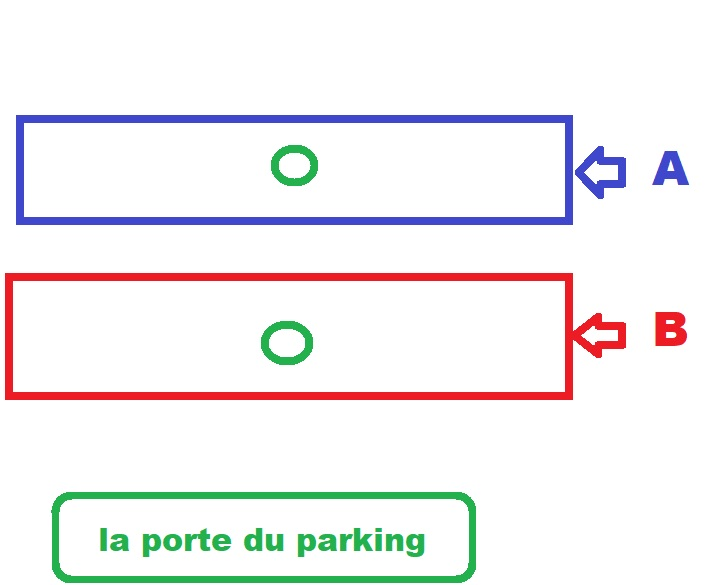
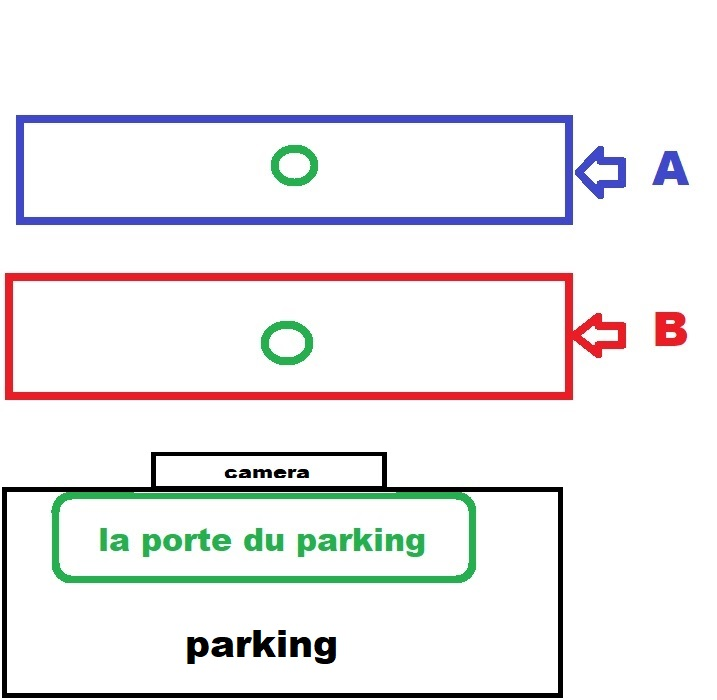
Signed-off-by: amr.lounis <amr.lounis>

Changed region(s): [[0.0, 0.1538, 0.9819, 1.0], [0.1227, 0.8923, 0.6137, 0.9538]]

diff --git a/chapitre4.tex b/chapitre4.tex
@@ -1,3 +1,7 @@
+% ++++++++++++++++++++++++++++ Je n'ai constaté aucune erreur liée à la zone A et B selon mon observation de boufedji page 58
+%+++++++ observation de boufedji algorithme supreme
+ % +++++++++++++++++++++++ remarque de DJOUADI unity of tables OK
+ % le langage de programmation Python sur is ok delete
 \chapter{Système intelligent de gestion du parking: Réalisation, résultats et analyse}
 \markboth{Système intelligent de gestion du parking: Réalisation, résultats et analyse}{}
 \section{Introduction}
@@ -18,7 +22,7 @@ En outre, il pourrait être avantageux de disposer de bases de données spécifi
 \section{Solution proposée}
 La solution proposée repose sur trois sous-systèmes , qui sont inter-connectés pour former un système global de gestion de parking intelligent, comme illustré dans la figure \ref{fig:ch4_Simple_system_diagram}. 
 
-\begin{outline}
+\begin{outline}[enumerate]
     \1 Le premier sous-système est utilisé pour détecter les voitures et les plaques d'immatriculation dans une image.
 
     \1 Le deuxième sous-système se focalise sur la reconnaissance des caractères optiques contenus sur la plaque détectée. 
@@ -28,17 +32,15 @@ La solution proposée repose sur trois sous-systèmes , qui sont inter-connecté
 
 \begin{figure}[H]
 	\centering
-	\includegraphics[height=05cm]{ch4-Simple_system_diagram.jpg}
+	\includegraphics[height=07cm]{ch4-Simple_system_diagram.jpg}
 	\caption{Système proposé de gestion de parking intelligent}
  \label{fig:ch4_Simple_system_diagram}
 \end{figure}
+
 \subsection{Sous-systèmes de détection de véhicules et de plaques d'immatriculations}
 Comme mentionné précédemment, ce travail s'appuie sur le modèle "YOLOv8", "SSD" ou "Faster R-CNN" pour la gestion des parkings. Ce processus implique l'identification et la prédiction des véhicules ainsi que des plaques d'immatriculation Algériennes, réparties en deux catégories : véhicules et plaques d’immatriculation.
 \\
 L'idée est de construire d'abord une base de données de véhicules, puis d'entraîner le modèle et de le tester sur des images. Pour ce faire, les images collectées sont soumises à un prétraitement et à une annotation. Ensuite, un échantillonnage automatique des données est appliqué pour former des ensembles d'images destinés à l'entraînement, à la validation et aux tests.
-%(70 \%) des images de données ont été utilisées comme échantillons d'apprentissage.
-%(20 \%) des images de données ont été utilisées comme ensembles de validation.
-%(10\%) des images de données ont été utilisées comme ensembles de test.
 
 Dans la phase d'apprentissage du modèle adapté, les poids du modèle sont calculés en se basant sur les ensembles de données préparés et les poids pré-entraînés. Une fois que l'apprentissage est terminé, il est nécessaire d'évaluer le modèle utilisé sur des données de test en utilisant les poids d'entraînement. Par conséquent, les véhicules munis de plaques d'immatriculation à détecter seront localisés et prédits.
 
@@ -59,30 +61,33 @@ La liste des numéros détectés est ensuite organisée dans l'ordre de leur pos
 
 \subsection{Sous-systèmes de suivi et de comptage en temps réel des véhicules}\label{sec:traking}
 
+La vidéo est une séquence d'images conçue pour créer une illusion de mouvement lorsqu'elle est visionnée séquentiellement. Le suivi des mouvements des voitures dans la vidéo repose sur l'analyse des déplacements des objets détectés dans les images successives de la vidéo, grâce à l'utilisation d'algorithmes de détection d'objets. Pour suivre le mouvement des voitures, le système passe par plusieurs étapes : tout d'abord, il repère la position de la voiture dans deux images consécutives, puis mesure la distance entre elles. Si cette distance est réduite, cela signifie que la voiture a peu bougé, ce qui permet d'attribuer un identifiant unique à chaque voiture pendant son déplacement dans la scène \cite{ch4_yolo_sort}.
 
-Les véhicules identifiés sont exploités dans le processus de suivi et de comptage des véhicules au sein d'une séquence vidéo. Cette séquence enregistre des images de véhicules capturées à des moments successifs. Par conséquent, lorsqu'un véhicule est observé en mouvement dans une vidéo, cela implique que le véhicule occupe une position différente à chaque image consécutive de la vidéo.
-\\
-L'idée fondamentale derrière le suivi d'objets réside dans la création d'un traqueur d'objet pour chaque objet détecté, afin de suivre son déplacement. Ce suivi se prolonge jusqu'à ce que la N-ième image de la séquence soit atteinte, avec un processus de détection d'objets en cours. Le traqueur d'objets est responsable de la surveillance continue de chaque véhicule, attribuant et maintenant des numéros d'identification (ID) pour chacun.
 
-Dans la phase de suivi de notre système, nous avons mis en œuvre un algorithme simple de suivi d'objets qui se base sur le suivi des centroïdes des objets. Il fonctionne en calculant la distance Euclidienne entre les centroïdes des véhicules déjà existants (c'est-à-dire les véhicules précédemment suivis par le traqueur de centroïdes) et les centroïdes des nouveaux véhicules présents dans les images suivantes de la vidéo. Les étapes complètes de cette solution sont détaillées comme suit :
+% Les véhicules identifiés sont exploités dans le processus de suivi et de comptage des véhicules au sein d'une séquence vidéo. Cette séquence enregistre des images de véhicules capturées à des moments successifs. Par conséquent, lorsqu'un véhicule est observé en mouvement dans une vidéo, cela implique que le véhicule occupe une position différente à chaque image consécutive de la vidéo.
+% \\
+% L'idée fondamentale derrière le suivi d'objets réside dans la création d'un traqueur d'objet pour chaque objet détecté, afin de suivre son déplacement. Ce suivi se prolonge jusqu'à ce que la N-ième image de la séquence soit atteinte, avec un processus de détection d'objets en cours. Le traqueur d'objets est responsable de la surveillance continue de chaque véhicule, attribuant et maintenant des numéros d'identification (ID) pour chacun.
 
-%Ces étapes sont répétées tout le temps tant que le programme est en cours d'exécution 
-\begin{outline}[enumerate]
-    \1  Lire un image de la vidéo (ou d'un flux de données en temps réel)à un moment t.
-    
-    \1  Détecter les véhicules présents dans l'image (en estimant les coordonnées des boîtes englobantes) concernée.
-    
-    \1  Attribuer un identifiant à chaque véhicule détecté.
-    
-    \1  Calculer les centroïdes des voitures détectées et les enregistrer dans une liste. 
-    
-    \1  Lire un nouvelle image de la vidéo à un moment t+1.
-    
-    \1  Détecter les véhicules présents dans la nouvelle image (en estimant les coordonnées des nouvelles boîtes englobantes).
-    
-    \1  Calculer la distance entre les centroïdes des nouveaux véhicules et tous les centroïdes d'objets enregistrés dans la liste précédente.Si la distance entre le centre du nouveau véhicule et l'un des centres de la liste est inférieure à une distance minimale prédéfinie, alors le véhicule détecté est considéré comme étant le même que celui déjà enregistré. Le centroïde nouvellement calculé remplace l'ancien centroïde, et l'identifiant reste inchangé. Si la distance entre le centroïde du nouveau véhicule et tous les centres enregistrés dans la liste précédente est supérieure à la distance minimale, alors ce véhicule est considéré comme un nouveau véhicule dans la vidéo. Son centroïde est ajouté à la liste des centroïde avec un nouvel identifiant.
-\end{outline}
+% Dans la phase de suivi de notre système, nous avons mis en œuvre un algorithme simple de suivi d'objets qui se base sur le suivi des centroïdes des objets. Il fonctionne en calculant la distance Euclidienne entre les centroïdes des véhicules déjà existants (c'est-à-dire les véhicules précédemment suivis par le traqueur de centroïdes) et les centroïdes des nouveaux véhicules présents dans les images suivantes de la vidéo. Les étapes complètes de cette solution sont détaillées comme suit :
 
+% %Ces étapes sont répétées tout le temps tant que le programme est en cours d'exécution 
+% \begin{outline}[enumerate]
+%     \1  Lire un image de la vidéo (ou d'un flux de données en temps réel)à un moment t.
+    
+%     \1  Détecter les véhicules présents dans l'image (en estimant les coordonnées des boîtes englobantes) concernée.
+    
+%     \1  Attribuer un identifiant à chaque véhicule détecté.
+    
+%     \1  Calculer les centroïdes des voitures détectées et les enregistrer dans une liste. 
+    
+%     \1  Lire un nouvelle image de la vidéo à un moment t+1.
+    
+%     \1  Détecter les véhicules présents dans la nouvelle image (en estimant les coordonnées des nouvelles boîtes englobantes).
+    
+%     \1  Calculer la distance entre les centroïdes des nouveaux véhicules et tous les centroïdes d'objets enregistrés dans la liste précédente.Si la distance entre le centre du nouveau véhicule et l'un des centres de la liste est inférieure à une distance minimale prédéfinie, alors le véhicule détecté est considéré comme étant le même que celui déjà enregistré. Le centroïde nouvellement calculé remplace l'ancien centroïde, et l'identifiant reste inchangé. Si la distance entre le centroïde du nouveau véhicule et tous les centres enregistrés dans la liste précédente est supérieure à la distance minimale, alors ce véhicule est considéré comme un nouveau véhicule dans la vidéo. Son centroïde est ajouté à la liste des centroïde avec un nouvel identifiant.
+% \end{outline}
+
+\subsubsection{comptage des voitures entrant et sortant}
 Si nous divisons la scène sous surveillance de la caméra de sécurité en deux zones,  à savoir la zone B près de la porte du parking et la zone A plus éloignée de la porte du parking, comme illustré dans la figure \ref{ch4-comptage}, il devient possible de compter les véhicules entrants et sortants en suivant le mouvement des véhicules entre les deux zones de la manière suivante :\\
 Lorsque nous suivons les véhicules qui se déplacent de la zone A vers la zone B, nous les comptons et les considérons comme le nombre de véhicules entrant dans le parking.\\
 Lorsque nous suivons les véhicules qui se déplacent de la zone B vers la zone A, nous les comptons et les considérons comme le nombre de véhicules sortant du parking.
@@ -96,7 +101,9 @@ Lorsque nous suivons les véhicules qui se déplacent de la zone B vers la zone 
 
 \section{Étude expérimentale}
 
-Les expériences réalisées dans cette section ont été effectuées en utilisant le langage de programmation Python sur la plateforme Google Colaboratory (communément appelée Colab). Cette plateforme utilise l'environnement "Jupyter" (exécuté dans le cloud de Google) pour des tâches d'apprentissage profond et des applications centrées sur les unités de traitement graphique (GPU). En plus de sa facilité d'utilisation (aucune installation préalable requise), Colab offre des ressources de calcul gratuites et prend en charge le développement collaboratif. Du point de vue technique, elle est équipée de 12,8 Go de mémoire vive (RAM) et d'une unité de traitement graphique gratuite (NVIDIA Tesla t4 + 16GB RAM) pouvant être utilisée en continu pendant 12 heures, avec la possibilité d'accéder à d'autres unités de traitement moyennant un abonnement payant. En complément, nous avons utilisé un ordinateur portable équipé d'un processeur \{Intel i5-8350U à 1,70 GHz\}, avec une carte graphique \{Intel UHD Graphics 620\}, sous Windows 10  pour réaliser nos expériences.
+Les expériences réalisées dans cette section ont été effectuées en utilisant
+% le langage de programmation Python sur 
+la plateforme Google Colaboratory (communément appelée Colab). Cette plateforme utilise l'environnement "Jupyter" (exécuté dans le cloud de Google) pour des tâches d'apprentissage profond et des applications centrées sur les unités de traitement graphique (GPU). En plus de sa facilité d'utilisation (aucune installation préalable requise), Colab offre des ressources de calcul gratuites et prend en charge le développement collaboratif. Du point de vue technique, elle est équipée de 12,8 Go de mémoire vive (RAM) et d'une unité de traitement graphique gratuite (NVIDIA Tesla t4 + 16GB RAM) pouvant être utilisée en continu pendant 12 heures, avec la possibilité d'accéder à d'autres unités de traitement moyennant un abonnement payant. En complément, nous avons utilisé un ordinateur portable équipé d'un processeur \{Intel i5-8350U à 1,70 GHz\}, avec une carte graphique \{Intel UHD Graphics 620\}, sous Windows 10  pour réaliser nos expériences.
 Le framework Pytorch est également employé pour construire notre modèle d'apprentissage profond pour la gestion de parking. 
 
 \subsection{Description des jeux de données}
@@ -569,7 +576,7 @@ Dans la première expérience, nous faisons varier les valeurs de la dimension d
 	\centering
     \begin{tabular}{|l|l|l|l|l|l|}
     \hline
-        Modèle & \shortstack{Dimension \\ d'image}  & Epoque &    mAP50 & \shortstack{Taille \\du modèle}   & \shortstack{Temps\\ d'apprentissage } \\ \hline
+        Modèle & \shortstack{Dimension \\ d'image}  & Epoque &    mAP50 & \shortstack{Taille \\du modèle \\(Mo)}   & \shortstack{Temps\\ d'apprentissage \\ (Minutes)} \\ \hline
         \textbf{YOLOv8n} & \textbf{320x320} &      \textbf{25}     & \textbf{0.995} &  \textbf{6} &      \textbf{38}    \\ \hline
         YOLOv8n &  416x416 &     25     & 0.994  & 6 &     44    \\ \hline
         YOLOv8n & 512x512  &     25    & 0.995   &  6 &  54     \\ \hline
@@ -601,7 +608,7 @@ Notre objectif était de sélectionner le modèle qui offre la vitesse de détec
     \centering
     \begin{tabular}{|l|l|l|l|}
     \hline
-        Modèle & Dimension d'image & Temps d'inférence & FPS\\ \hline
+        Modèle & Dimension d'image & Temps d'inférence (MS)& FPS\\ \hline
         \textbf{YOLOv8n} & \textbf{320x320} & \textbf{71} & \textbf{14.1} \\ \hline
         YOLOv8n & 416x416 & 83 & 12.0 \\ \hline
         YOLOv8n & 512x512 & 125 & 8.0 \\ \hline
@@ -659,7 +666,7 @@ De manière similaire, nous avons effectué des expériences pour évaluer la re
     \centering
     \begin{tabular}{|l|l|l|l|l|l|}
     \hline
-        Modèle & \shortstack{Dimension \\d'image } & Epoque &    mAP50 & \shortstack{Taille \\du modèle}   &  \shortstack{Temps \\ d'apprentissage}     \\ \hline
+        Modèle & \shortstack{Dimension \\d'image } & Epoque &    mAP50 & \shortstack{Taille \\du modèle \\(Mo)}   &  \shortstack{Temps \\ d'apprentissage \\ (Minutes)}     \\ \hline
         YOLOv8n & 96x96          &   80         & 0.93   & 6 & 13  \\ \hline
         YOLOv8n & 128x128         &   80       & 0.986   &  6 &  15\\ \hline
         YOLOv8n & 160x160          &   80       & 0.986   &6  & 16 \\ \hline
@@ -685,7 +692,7 @@ En ce qui concerne le temps d'apprentissage, les modèles ont des temps d'appren
     \centering
     \begin{tabular}{|l|l|l|}
     \hline
-        Modèle  & Dimension d'image & Temps d'inférence \\ \hline
+        Modèle  & Dimension d'image &  \shortstack{Temps d'inférence \\ (MS) }\\ \hline
         YOLOv8n & 96x96& 10 \\ \hline
         YOLOv8n & 128x128 & 10 \\ \hline
         YOLOv8n & 160x160 & 10 \\ \hline
@@ -693,8 +700,8 @@ En ce qui concerne le temps d'apprentissage, les modèles ont des temps d'appren
         \textbf{YOLOv8n} & \textbf{224x224} & \textbf{20} \\ \hline
         YOLOv8n & 256x256 & 30 \\ \hline
         YOLOv8s & 224x224 & 330 \\ \hline
-         YOLOv8m & 320x320 & 600 \\ \hline
-        SSD & 320 & 110x110 \\ \hline
+        YOLOv8m & 320x320 & 600 \\ \hline
+        SSD & 320x320 & 110 \\ \hline
         Faster R-CNN & 320x320 & 600 \\ \hline
     \end{tabular}
     \caption{Comparaison de vitesse d'inférence des modèles pour la reconnaissance des chiffres}
@@ -797,7 +804,7 @@ La Figure \ref{fig:final_soft} présente l'interface principale de l'application
 \1 10. Nombre de véhicule sortant du parking.
 \1 11. Liste des numéros de plaques d'immatriculation des voitures entrant dans le parking.
 \1 12. Liste des numéros de plaques d'immatriculation des véhicules sortant du parking.
-\1 13, 14 et 15 : Ce sont des zones utilisées par l'algorithme de suivi qui a été expliqué dans la sous-section \ref{sec:traking}, où lorsque le point indiqué par la flèche 8 entre dans l'une des zones, le travail se fait comme suit :
+\1 13, 14 et 15 : Ce sont des zones utilisées dans la sous-section \ref{sec:traking}, où lorsque le point indiqué par la flèche 8 entre dans l'une des zones, le travail se fait comme suit :
        
     \2 Lorsque le point 8 est détecté dans la zone 13, puis quelque temps plus tard, il est détecté dans la zone 15 avec le même identifiant de voiture, le système conclut que la voiture est entrée dans le parking.
 
@@ -857,65 +864,3 @@ Lors du développement des différents modules de l'application, plusieurs probl
 Dans ce dernier chapitre, nous avons décrit notre système de gestion de parking pour les véhicules en Algérie. Ce système est capable de détecter les véhicules, les plaques d'immatriculation, de reconnaître les chiffres d'immatriculation et de suivre le mouvement des véhicules entrant et sortant d'un parking. Il repose sur des techniques avancées de vision par ordinateur, en particulier l'apprentissage profond.
 
 Nous avons évalué plusieurs algorithmes de détection d'objets, et à la suite de nombreuses expériences, nous avons choisi YOLOv8n en raison de ses performances exceptionnelles en matière de détection et de reconnaissance. Nous avons également testé divers outils OCR pour la lecture des plaques d'immatriculation. Les résultats obtenus ont montré la supériorité du modèle YOLOv8n dans cette tâche.
-
-%%%%%%%%%%%%pour expliquer le processus de suivi de voiture et de plaque d'immatriculation tout au long de la vidéo, on assignent des identifiants uniques et on analysent leur mouvement pour déterminer leur entrée ou leur sortie du parking.
-
-% Voici une explication générale des étapes mentionnées précédemment:
-
-% \begin{outline}[enumerate]
-%     \1 Réception de la vidéo a partir de la caméra de surveillance en temps réel :
-%         \2 nous pouvons utiliser la bibliothèque OpenCV pour capturer la vidéo en temps réel à partir de la caméra de surveillance.
-
-%     \1 Détection des voitures et des plaques d'immatriculation à l'aide d'un modèle de détection d'objets :
-%        \2 nous pouvons utiliser des modèles tels que Faster R-CNN ou SSD Mobile net v3  ou YOLOV8 pour détecter les voitures dans les images vidéo.
-    
-%     \1 Découpage de la partie d'image contenant la plaque d'immatriculation :
-%        \2 Une fois les voitures et les plaques d'immatriculation détectées, nous pouvons découper la partie de l'image qui contient la plaque d'immatriculation.  en utilisant des bibliothèques de traitement d'image comme OpenCV.
-    
-%     \1 Extraction du texte (de la plaque d'immatriculation):
-%        \2 Pour lire la plaque d'immatriculation, nous pouvons utiliser des algorithmes OCR ou développer un algorithme personnalisé.
-    
-%     \1 Suivi des voitures dans une vidéo:
-%        \2 Il existe plusieurs algorithmes de suivi d'objets que nous pouvons utiliser pour suivre le mouvement des voitures entre les images vidéo consécutives , mais celui qui peut être utilisé dans notre projet est l'algorithme de détection et de suivi (Detection and Tracking) .
-    
-%     \1 Attribution d'identifiants aux voitures :
-%        \2 Lors du suivi des voitures, nous attribuons un identifiant unique à chaque voiture dans la scène, ainsi qu'à sa plaque d'immatriculation.
-    
-%     \1 Analyse du mouvement des voitures pour déterminer si elles entrent ou sortent du parking :
-%        \2 Nous utilisons les identifiants attribués pour analyser le mouvement des voitures, déterminer leur direction et savoir si elles entrent ou sortent du parking.
-    
-%     \1 Détermination du nombre de voitures entrantes et sortantes du parking :
-%         \2 Calcule du nombre de voitures entrantes et sortantes du parking en fonction de l'analyse du mouvement des voitures qui a été effectuée
-       
-% \end{outline}
-
-% %%%%%%%%%%%%%%%%%%%
-% Pour entraîner un modèle de détection d'objets dans des images, plusieurs étapes importantes doivent généralement être suivies:
-% \begin{outline}[enumerate]
-%     \1 Chargement des bibliothèques : Commençons par charger les bibliothèques de base telles que PyTorch et TorchVision.
-
-%     \1 Sélection et personnalisation du modèle : Choisissons le modèle que nous souhaitons entraîner et personnalisons ses paramètres de base tels que la forme des entrées et des sorties, ainsi que d'autres paramètres selon nos besoins.
-
-%     \1 Création d'une classe pour la lecture des données : Écrivons une classe personnalisée pour lire l'ensemble de données composé d'images et de fichiers de annotations sur les objets, puis convertissons ces données en tensors compréhensibles par le framework.
-
-%     \1 Préparation de données : Au sein de cette étape, redimensionnons les images pour les adapter aux exigences du modèle de détection d'objets et assurons-nous que les données sont correctement formatées, notamment en effectuant le redimensionnement, la normalisation, et l'ajustement des dimensions au besoin.
-
-%     \1 Chargement du modèle : Assurons-nous que le modèle est correctement chargé et converti dans un format compréhensible par le processeur graphique GPU ou l'unité centrale de traitement (CPU).
-
-%     \1 Définition de la fonction de perte : Définissons et choisissons la fonction de perte appropriée à notre tâche .
-
-%     \1 Sélection de l'optimiseur : Choisissons l'optimiseur à utiliser, tel que le SGD (Stochastic Gradient Descent), et configurons ses paramètres, y compris le taux d'apprentissage et le nombre d'étapes.
-
-%     \1 Entraînement du modèle : Effectuons le processus d'entraînement en utilisant une boucle itérative qui comprend les étapes suivantes :
-%    \2 Réinitialisation des gradients.
-%    \2 Passage en avant (Forward Pass) pour obtenir les prédictions du modèle.
-%    \2 Calcul de la perte entre les prédictions et les valeurs réelles.
-%    \2 Rétropropagation (Backward Pass) et mise à jour des paramètres du modèle.
-
-%    \1 Sauvegarde du modèle : Après l'entraînement, sauvegardons le modèle pour une utilisation ultérieure sans avoir besoin de le ré-entraîner.
-
-%    \1 Évaluation du modèle : Évaluons les performances du modèle en utilisant des données de test ou de validation pour mesurer son efficacité.
-
-%    \1 Utilisation du modèle : Après avoir réussi l'entraînement, nous pouvons utiliser le modèle pour détecter des objets dans de nouvelles images.
-
-% \end{outline}

diff --git a/chapitre1.tex b/chapitre1.tex
@@ -1,3 +1,4 @@
+ % +++++++++++++++++++++++ remarque de DJOUADI Stationnement robotisé  supremi page 7
 \chapter{Gestion du stationnement}
 \markboth{Gestion du stationnement}{}
 \section{Introduction}
@@ -81,21 +82,22 @@ On peut distinguer trois types de parkings en fonction de leur accessibilité : 
 
 Le choix entre un parking public et un parking privé dépend des circonstances individuelles, telles que l'emplacement, l'accès et les besoins spécifiques des conducteurs. 
 
-\subsection{Selon la méthode de stationnement}
-\begin{outline}
-    \1  \textbf{Stationnement conventionnel: } est la méthode traditionnelle de stationnement où les conducteurs trouvent et occupent manuellement une place de stationnement. Les conducteurs conduisent leur véhicule jusqu'à le parc de stationnement disponible et effectuent les manœuvres nécessaires pour s'y garer. Cette méthode de stationnement est largement répandue et utilisée dans les parkings conventionnels.
-    \1  \textbf{Stationnement robotisé (autonome): } il s'agit d'une méthode innovante où elle fait recours aux structures de stationnement automatisée (i.e systèmes robotiques) pour stationner et récupérer les véhicules sans intervention humaine. Dans ce type de système, les véhicules sont conduits jusqu'à une zone d'entrée spécifique où des capteurs et des logiciels avancés prennent le relais. Les véhicules sont guidés via les panneaux et signaux automatiques, puis déplacés automatiquement vers les emplacements de stationnement disponibles et les plus adaptés à leur taille à l'aide de mécanismes robotiques. Lorsque les conducteurs souhaitent récupérer leur véhicule, celui-ci est ramené à la zone de sortie par le système automatisé. Ce type de stationnement offre de nombreux avantages notamment l'utilisation optimisée de l'espace, une meilleure efficacité du stationnement et une réduction des risques de collision. l'illustration dans la figure  \ref{Automaticcarpark} 
+% \subsection{Selon la méthode de stationnement}
+% \begin{outline}
+%     \1  \textbf{Stationnement conventionnel: } est la méthode traditionnelle de stationnement où les conducteurs trouvent et occupent manuellement une place de stationnement. Les conducteurs conduisent leur véhicule jusqu'à le parc de stationnement disponible et effectuent les manœuvres nécessaires pour s'y garer. Cette méthode de stationnement est largement répandue et utilisée dans les parkings conventionnels.
     
-\begin{figure}[H]
-	\centering
-	\includegraphics[height=06cm]{img/ch1-Automatic car parking -01.jpeg}
-	\caption{Parc avec stationnement autonome}
- \label{Automaticcarpark}
-\end{figure}
+    % \1  \textbf{Stationnement robotisé (autonome): } il s'agit d'une méthode innovante où elle fait recours aux structures de stationnement automatisée (i.e systèmes robotiques) pour stationner et récupérer les véhicules sans intervention humaine. Dans ce type de système, les véhicules sont conduits jusqu'à une zone d'entrée spécifique où des capteurs et des logiciels avancés prennent le relais. Les véhicules sont guidés via les panneaux et signaux automatiques, puis déplacés automatiquement vers les emplacements de stationnement disponibles et les plus adaptés à leur taille à l'aide de mécanismes robotiques. Lorsque les conducteurs souhaitent récupérer leur véhicule, celui-ci est ramené à la zone de sortie par le système automatisé. Ce type de stationnement offre de nombreux avantages notamment l'utilisation optimisée de l'espace, une meilleure efficacité du stationnement et une réduction des risques de collision. l'illustration dans la figure  \ref{Automaticcarpark} 
+    
+% \begin{figure}[H]
+% 	\centering
+% 	\includegraphics[height=06cm]{img/ch1-Automatic car parking -01.jpeg}
+% 	\caption{Parc avec stationnement autonome}
+%  \label{Automaticcarpark}
+% \end{figure}
 
 
 
-\end{outline}
+% \end{outline}
 
 \section{Gestion des parkings}
 

diff --git a/_resume.tex b/_resume.tex
@@ -3,11 +3,10 @@
 \textbf{\Large{ملخص}}\\
 \small
 
-مع النمو الكبير في عدد السيارات حول العالم، أصبح الطلب المتزايد على مواقف السيارات في المدن الكبيرة أمرًا ضروريًا نظرًا لندرة هذه المساحات ووجود أساليب الإدارة التقليدية. هذا الوضع يستدعي اعتماد تكنولوجيات جديدة لإدارة مواقف السيارات بطريقة ذكية، مما يضمن التنظيم الفعّال والاستفادة الأمثل من هذه الموارد. الهدف الرئيسي هو الاستفادة الكاملة من المساحة المخصصة، واستيعاب المزيد من السيارات، وضمان راحة السائقين، وتقليل ازدحام حركة المرور.
-
+مع النمو الكبير في عدد السيارات حول العالم أصبح الطلب المتزايد على مواقف السيارات في المدن الكبيرة أمرًا ضروريًا نظرًا لندرة هذه المساحات ووجود أساليب الإدارة التقليدية  هذا الوضع يستدعي اعتماد تكنولوجيات جديدة لإدارة مواقف السيارات بطريقة ذكية  مما يضمن التنظيم الفعّال والاستفادة الأمثل من هذه الموارد  الهدف الرئيسي هو الاستفادة الكاملة من المساحة المخصصة  واستيعاب المزيد من السيارات  وضمان راحة السائقين، وتقليل ازدحام حركة المرور 
 \par
-الإدارة التقليدية لمواقف السيارات عادةً ما تتضمن تسجيل أوقات دخول وخروج السيارات مع لوحات تراخيصها مع الحفاظ على تتبع دقيق للمساحات المتاحة. يتم تكليف مهام هذه المسؤوليات عادة لموظف استقبال يستقبل 
-السيارات عند وصولها، ويفحص لوحات التراخيص، ويسجل المعلومات اللازمة.
+الإدارة التقليدية لمواقف السيارات عادةً ما تتضمن تسجيل أوقات دخول وخروج السيارات مع لوحات تراخيصها مع الحفاظ على تتبع دقيق للمساحات المتاحة  يتم تكليف مهام هذه المسؤوليات عادة لموظف استقبال يستقبل 
+السيارات عند وصولها، ويفحص لوحات التراخيص، ويسجل المعلومات اللازمة 
 
 
 \par
@@ -17,8 +16,6 @@
 \textbf{الكلمات المفتاحية \LR{:}} 
  نظام الوقت الحقيقي ، إدارة مواقف السيارات، الكشف عن المركبات ، التعرف على لوحة الترخيص ، قراءة لوحة الترخيص ،  تتبع المركبات, \LR{YOLOV8} , \LR{SSD} , \LR{FASTER R-CNN} .
 \end{RLtext}
-
-
 
 \vspace{0.5cm}
 

diff --git a/chapitre3.tex b/chapitre3.tex
@@ -194,3 +194,11 @@ Il existe plusieurs frameworks d'apprentissage profond populaires qui sont large
  \section{Conclusion}
 
 Cette étape de recherche scientifique a été cruciale pour ce projet. Au cours de ce chapitre, nous avons pu identifier les travaux les plus récents liés à la gestion du stationnement des véhicules en Algérie, réalisés en utilisant des modèles d'apprentissage automatique (classiques et profonds). Cette recherche scientifique nous a également permis de proposer une solution potentielle qui pourrait être développée en suivant des étapes clairement définies.
+
+
+
+
+
+
+%%%%%%%%%%%%%%%%%%%%%%%%%%%%%%%%%%%%%%%%%%%%%%%%%%%%%%%%%%%
+

diff --git a/_listeofabrv.tex b/_listeofabrv.tex
@@ -25,5 +25,7 @@
 \textbf{FP} & & & Faux Positifs\\
 \textbf{FN} & & & Faux Négatifs \\
 \textbf{HOG} & & & Histogrammes Orientés Gradients\\
+\textbf{Mo} & & & megaoctet (megabyte)\\
+\textbf{MS} & & & milliseconds )\\
 
 \end{tabular}
